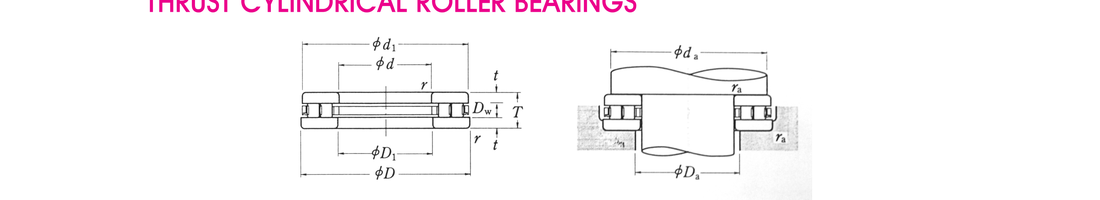
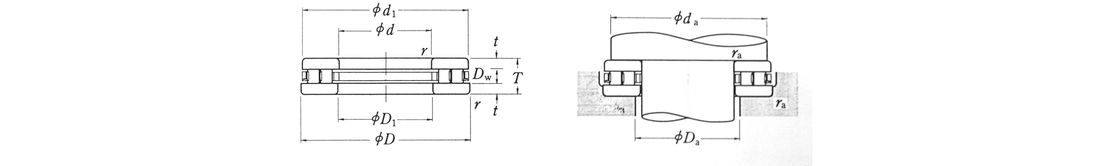
Fix remaining cropped diagrams and add kingpin thrust bearing page
- thrust_ball.png: bottom bound still let the page's own description
  sentence bleed in; tightened further.
- thrust_needle.png: top bound clipped the AXK/AZK dimension arrows.
- thrust_cylindrical_roller.png: top bound clipped the catalog's own
  section title, which shouldn't have been in the crop at all.
- Added kingpin_thrust.html (원일베어링/WBC company brochure): lists the
  18 part numbers printed there. That source gives no d/D/B dimensions,
  so none are fabricated -- the page says so explicitly and points to
  quote/inquiry instead. Linked from the thrust tab on bearing_page.html.

diff --git a/company-homepage/kingpin_thrust.html b/company-homepage/kingpin_thrust.html
@@ -1,0 +1,201 @@
+<!DOCTYPE html>
+<html lang="ko">
+<head>
+<meta charset="UTF-8" />
+<meta name="viewport" content="width=device-width, initial-scale=1.0" />
+<title>킹핀 스러스트 베어링 | [회사명] 베어링</title>
+<link rel="preconnect" href="https://fonts.googleapis.com">
+<link rel="preconnect" href="https://fonts.gstatic.com" crossorigin>
+<link href="https://fonts.googleapis.com/css2?family=Oswald:wght@500;600;700&family=Noto+Sans+KR:wght@400;500;700;900&family=Roboto+Mono:wght@500;600&display=swap" rel="stylesheet">
+<link rel="stylesheet" href="styles.css">
+</head>
+<body>
+
+<header class="site-header">
+    <div class="wrap header-row">
+      <a class="logo-slot" href="index.html" style="text-decoration: none;">
+        <svg class="logo-mark" viewBox="0 0 40 40" fill="none" xmlns="http://www.w3.org/2000/svg" aria-hidden="true">
+          <circle cx="20" cy="20" r="17" stroke="#c98a2b" stroke-width="2.5" />
+          <circle cx="20" cy="20" r="8.5" stroke="#4f7fb3" stroke-width="2.5" />
+          <circle cx="20" cy="7" r="2.6" fill="#eef2f6" />
+          <circle cx="30.5" cy="14" r="2.6" fill="#eef2f6" />
+          <circle cx="30.5" cy="26" r="2.6" fill="#eef2f6" />
+          <circle cx="20" cy="33" r="2.6" fill="#eef2f6" />
+          <circle cx="9.5" cy="26" r="2.6" fill="#eef2f6" />
+          <circle cx="9.5" cy="14" r="2.6" fill="#eef2f6" />
+        </svg>
+        <span class="company-name">
+          [회사명] 베어링
+          <span class="sub">BEARING DISTRIBUTION</span>
+        </span>
+      </a>
+
+      <nav class="main-nav" id="mainNav">
+        <div class="nav-item">
+          <a href="introduce.html">회사소개</a>
+          <div class="nav-dropdown">
+            <a href="introduce.html#greeting">인사말</a>
+            <a href="introduce.html#history">연혁</a>
+            <a href="introduce.html#directions">찾아오시는 길</a>
+          </div>
+        </div>
+        <div class="nav-item">
+          <a href="about-product.html">취급제품</a>
+          <div class="nav-dropdown">
+            <a href="about-product.html#bearing-group">베어링</a>
+            <a href="about-product.html#accessory-group">부속 부품</a>
+            <a href="brands.html">취급 브랜드</a>
+          </div>
+        </div>
+        <a href="search-product.html">규격검색</a>
+        <div class="nav-item">
+          <a href="board.html">고객센터</a>
+          <div class="nav-dropdown">
+            <a href="notice.html">공지사항</a>
+            <a href="catalog.html">카탈로그</a>
+            <a href="board.html">견적문의</a>
+          </div>
+        </div>
+
+        <div class="mobile-lang-row">
+          <span class="mobile-lang-caption">Language</span>
+          <div class="mobile-lang-options" id="mobileLangOptions">
+            <button type="button" class="mobile-lang-btn" data-lang="KOR" aria-pressed="true">KOR</button>
+            <button type="button" class="mobile-lang-btn" data-lang="ENG" aria-pressed="false">ENG</button>
+            <button type="button" class="mobile-lang-btn" data-lang="CHN" aria-pressed="false">CHN</button>
+            <button type="button" class="mobile-lang-btn" data-lang="JPN" aria-pressed="false">JPN</button>
+          </div>
+        </div>
+      </nav>
+
+      <div class="lang-select" id="langSelect">
+        <button type="button" class="lang-select-btn" id="langSelectBtn" aria-haspopup="true" aria-expanded="false">
+          <span id="langSelectLabel">KOR</span>
+          <svg viewBox="0 0 12 8" fill="none" stroke="currentColor" stroke-width="1.6" stroke-linecap="round" stroke-linejoin="round"><path d="M1 1.5L6 6.5L11 1.5" /></svg>
+        </button>
+        <div class="lang-menu" id="langMenu" role="menu">
+          <button type="button" role="menuitemradio" aria-checked="true" data-lang="KOR">한국어 <span class="check">✓</span></button>
+          <button type="button" role="menuitemradio" aria-checked="false" data-lang="ENG">English <span class="check">✓</span></button>
+          <button type="button" role="menuitemradio" aria-checked="false" data-lang="CHN">中文 <span class="check">✓</span></button>
+          <button type="button" role="menuitemradio" aria-checked="false" data-lang="JPN">日本語 <span class="check">✓</span></button>
+        </div>
+      </div>
+
+      <div class="header-cta">
+        <a href="board.html" class="btn btn-accent btn-sm">견적 문의하기</a>
+      </div>
+
+      <button class="nav-toggle" id="navToggle" aria-label="메뉴 열기" aria-expanded="false" aria-controls="mainNav">
+        <svg viewBox="0 0 24 24" width="20" height="20" fill="none" stroke="currentColor" stroke-width="2" stroke-linecap="round">
+          <line x1="4" y1="7" x2="20" y2="7" />
+          <line x1="4" y1="12" x2="20" y2="12" />
+          <line x1="4" y1="17" x2="20" y2="17" />
+        </svg>
+      </button>
+    </div>
+  </header>
+
+<section class="page-section" id="kingpin-thrust" style="border-bottom: none;">
+    <div class="wrap">
+      <div class="section-head">
+        <p class="eyebrow">Kingpin Thrust Bearings</p>
+        <h2>킹핀 스러스트 베어링</h2>
+        <p>분리형 스러스트 베어링의 단점을 보완한 조립형(일체형) 스러스트 베어링입니다.</p>
+        <p>차량, 중장비 등 킹핀(조향축) 부위를 비롯한 다양한 용도에 사용됩니다.</p>
+        <p class="section-head-tip">형번을 입력하면 검색됩니다. d/D/B 치수는 카탈로그에 표기되지 않아, 정확한 치수는 견적 문의를 통해 안내드립니다.</p>
+      </div>
+      <div style="background: #f4f4f2; border: 1px solid var(--border); border-radius: var(--radius-md); padding: 20px 20px 16px; margin: 4px 0 18px;">
+        <p style="text-align: center; font-size: 11px; color: #999; margin: 0 0 14px;">원일베어링(WBC) 카탈로그 제품 사진</p>
+        <img src="img/kingpin_thrust.png" alt="킹핀 스러스트 베어링 제품 사진" style="display: block; margin: 0 auto; max-width: 100%; height: auto;" loading="lazy">
+        <p style="font-size: 11.5px; color: var(--text-sub); text-align: center; margin: 10px 0 0;">분리형 스러스트 베어링을 조립형(일체형) 구조로 개선한 제품입니다.</p>
+      </div>
+
+      <div class="field" style="max-width: 360px; margin-bottom: 16px;">
+        <label for="kptFilter">형번 검색</label>
+        <input id="kptFilter" type="text" placeholder="예: TAG12 또는 T-22" autocomplete="off" />
+      </div>
+      <p class="finder-tip" id="kptCount" style="margin-bottom: 10px;"></p>
+
+      <div class="finder-results" style="overflow-x: auto;">
+        <table class="spec-table" style="min-width: 300px; max-width: 420px;">
+          <thead>
+            <tr>
+              <th>형번</th>
+            </tr>
+          </thead>
+          <tbody id="kptBody">
+            <tr><td class="type-cell">20TAG12</td></tr>
+            <tr><td class="type-cell">25TAG11</td></tr>
+            <tr><td class="type-cell">25TAG12</td></tr>
+            <tr><td class="type-cell">28TAG12</td></tr>
+            <tr><td class="type-cell">30TAG12</td></tr>
+            <tr><td class="type-cell">32TAG12</td></tr>
+            <tr><td class="type-cell">35TAG12</td></tr>
+            <tr><td class="type-cell">40TAG12</td></tr>
+            <tr><td class="type-cell">51104-1</td></tr>
+            <tr><td class="type-cell">51106-1</td></tr>
+            <tr><td class="type-cell">51108-1</td></tr>
+            <tr><td class="type-cell">T-19</td></tr>
+            <tr><td class="type-cell">T-22</td></tr>
+            <tr><td class="type-cell">T-28</td></tr>
+            <tr><td class="type-cell">T-50</td></tr>
+            <tr><td class="type-cell">T-60</td></tr>
+            <tr><td class="type-cell">25.4KP</td></tr>
+            <tr><td class="type-cell">F-35A</td></tr>
+          </tbody>
+        </table>
+      </div>
+
+      <p style="font-size: 12.5px; color: var(--text-faint); margin-top: 16px;">
+        &#8251; 위 형번 목록은 원일베어링공업(주)(WBC, www.wbc-bearing.co.kr) 회사소개 자료를 기준으로 작성했습니다.
+        해당 자료에는 형번만 표기되어 있고 d(내경)&middot;D(외경)&middot;B(폭) 치수는 포함되어 있지 않아, 임의로 추정한 수치를 게재하지 않았습니다.
+        정확한 치수&middot;재고&middot;가격은 견적 문의를 통해 확인 부탁드립니다.
+      </p>
+    </div>
+  </section>
+
+<footer class="site-footer">
+    <div class="wrap footer-row">
+      <div>
+        <div class="f-name">[회사명] BEARING CO.</div>
+        <div class="f-meta">
+          사업자등록번호 000-00-00000 &middot; 대표 홍길동<br />
+          비공개 (문의 시 안내드립니다)
+        </div>
+      </div>
+      <nav class="footer-nav">
+        <a href="introduce.html">회사소개</a>
+        <a href="about-product.html">취급제품</a>
+        <a href="board.html">문의</a>
+      </nav>
+    </div>
+  </footer>
+
+<script src="common.js"></script>
+<script>
+  (function () {
+    var input = document.getElementById('kptFilter');
+    var rows = Array.prototype.slice.call(document.querySelectorAll('#kptBody tr'));
+    var countEl = document.getElementById('kptCount');
+
+    function updateCount(shown) {
+      countEl.textContent = shown + ' / ' + rows.length + '건 표시 중';
+    }
+
+    function applyFilter() {
+      var q = input.value.trim().toUpperCase();
+      var shown = 0;
+      rows.forEach(function (row) {
+        var match = q === '' || row.textContent.toUpperCase().indexOf(q) !== -1;
+        row.style.display = match ? '' : 'none';
+        if (match) shown++;
+      });
+      updateCount(shown);
+    }
+
+    input.addEventListener('input', applyFilter);
+    updateCount(rows.length);
+  })();
+</script>
+</body>
+</html>

diff --git a/company-homepage/bearing_page.html b/company-homepage/bearing_page.html
@@ -311,6 +311,12 @@
           <h4>스러스트 니들 베어링</h4>
           <span class="p-card-cta">규격 보기 →</span>
         </a>
+        <a class="product-card" href="kingpin_thrust.html">
+          <svg class="p-icon" viewBox="0 0 40 40" fill="none"><circle cx="20" cy="20" r="14" stroke="currentColor" stroke-width="2.5"/><circle cx="20" cy="20" r="6" stroke="currentColor" stroke-width="2.5"/></svg>
+          <h4>킹핀 스러스트 베어링</h4>
+          <p>분리형의 단점을 보완한 조립형, 차량·중장비 킹핀용.</p>
+          <span class="p-card-cta">규격 보기 →</span>
+        </a>
         </div>
       </div>
 
